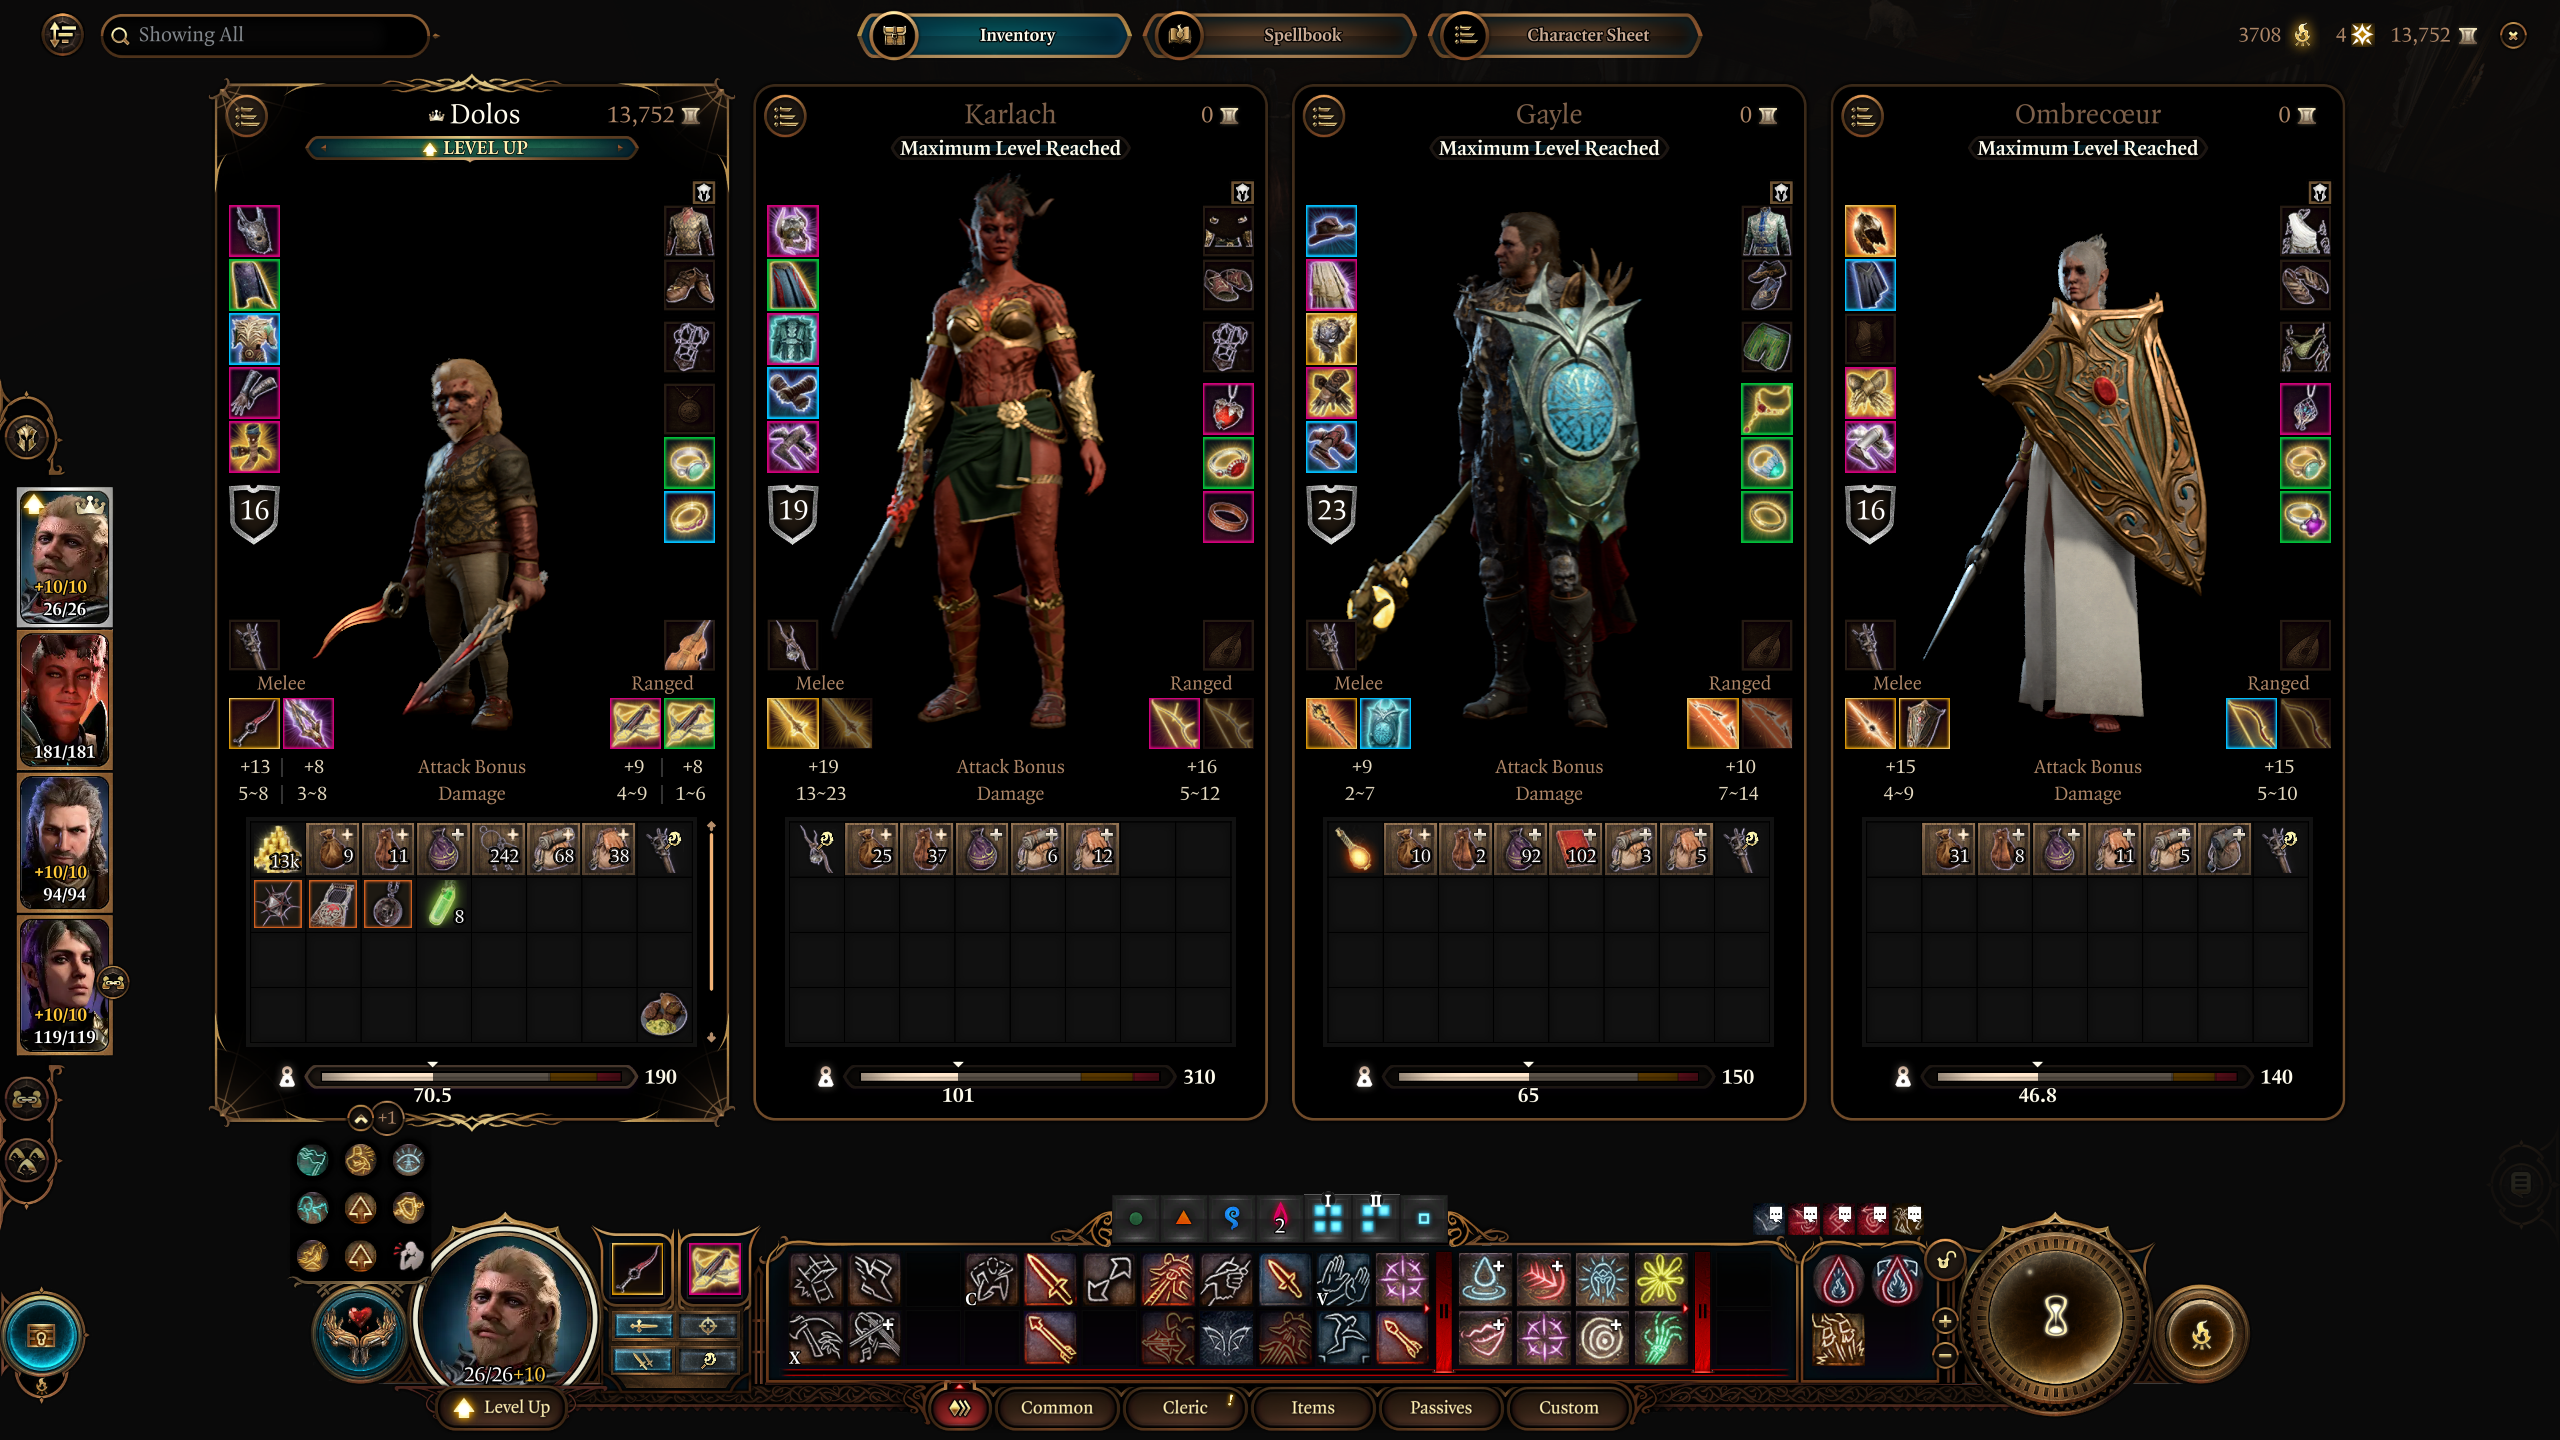
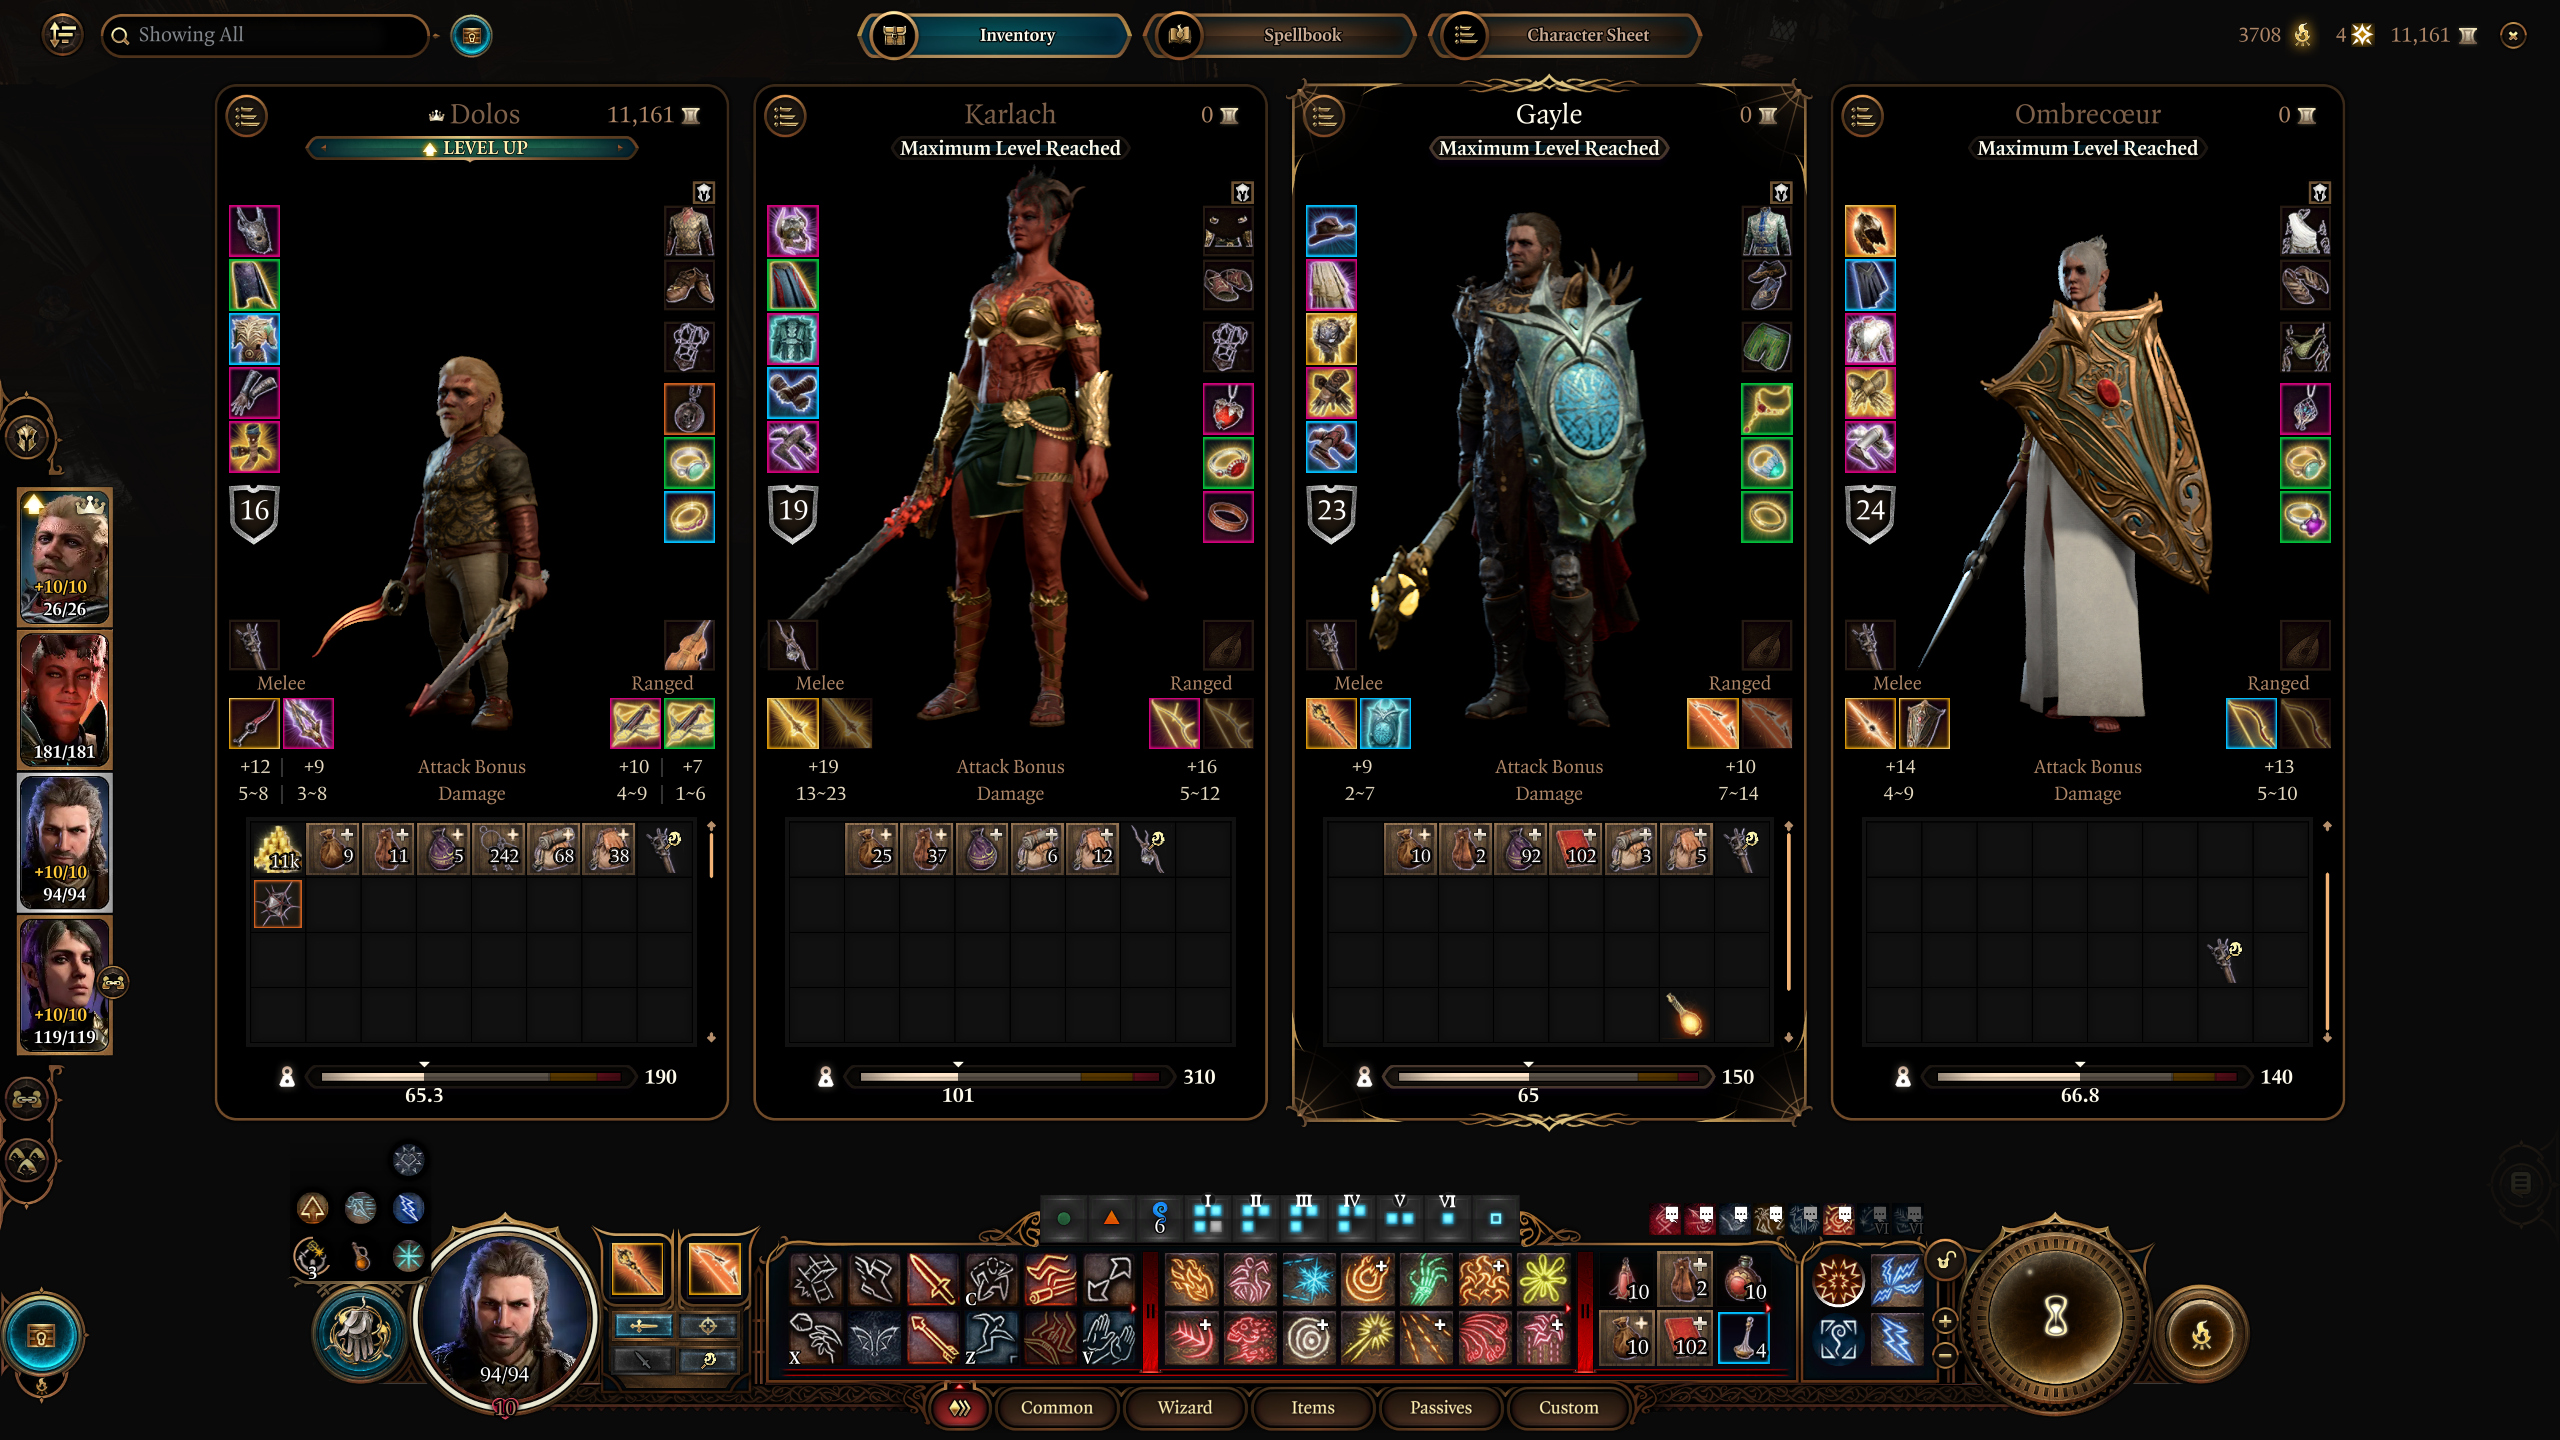
🔖 Update version to 2.5.0
- 🔥 Remove static paperdolls in Camp Panel when out of camp ( was buggy & not working with all languages )
- ✨ Add CSToggler in CharacterPanel
- ✨ Update Char & Camp/Companions inventories and panels sizes ( Now column of 8 slots like in Party Panel )
- ✨ Add images for Low Resolution screen
- ✨ Add Camp/Companions Panel button in Character & Party panels
- 💄 Rework Alchemy Panel - Full Review
- 💄 Update prepared frame image
- 💄 Fix  artefact of Bottom Bar Spell Ressources images
- 🐛 Fix Companions Panel CS toggle animations
- 🐛 Fix Character Panel SpellBook size & spacing

diff --git a/README.md b/README.md
@@ -14,7 +14,7 @@ The purpose of this mod is to improve Character, Party and Companions Panels. Al
 > Delete manually AToR old mod version.
 
 ## 🔖 Version
-- 📦 **ACS** mod : `2.4.0`
+- 📦 **ACS** mod : `2.5.0`
 - 🎮 **BG3** compatibility : `Hotfix #21 [Patch6_Hotfix4]`
 
 ## ✨ Features
@@ -24,10 +24,14 @@ The purpose of this mod is to improve Character, Party and Companions Panels. Al
 - Extend the **size** of useful content in Party Panel.
 - **Align** everything in its right place.
 - Replace some backgrounds and sprites to **fix artifacts** in vanilla images ( Party Panel Bg, Tabs, ... ).
-- Full review of the **Inventory** for Character and Party Panels.
-- Full review of the **Equipment** for Character and Party Panels.
-- Add buttons in *Spells Book*
+- Rework **Inventory** for Character and Party Panels.
+- Rework **Equipment** for Character and Party Panels.
 - Rework *Camp/Companions* Panels.
+- Rework *Alchemy* Panels.
+- Add **Button in Spells Book** to open *learn from scrolls* & collapse section before *prepared spells*.
+- Add **Button in Character and Party Panels** to open *Camp/Companions* Panel even out of camp.
+- Add **Button in Character Panel** to switch between *Info & Equipment* (like in Camp/Companions panel)
+- Add more **slots** to *inventories*.
 
 *All Types of Resistance*:
 - Display **all** types of resistance including ones without any immunity, resistance or weakness.
@@ -39,7 +43,7 @@ The purpose of this mod is to improve Character, Party and Companions Panels. Al
 ## 🔀 Compatibility
 
 ### 🟢 **Compatible** with the following mods :
-- **Better Character and Party Panels** ( *BCPP* ) *All variants* : Tested with BCPP v1.6.1 ( Alias 1.61 )
+- **Better Character and Party Panels** ( *BCPP* ) *All variants* : Tested with BCPP v1.6.2 ( Alias 1.62 )
 - **Better Tooltips** ( *BT* ) : Tested with BT v1.1.1 ( Alias 1.11 )
 - **Better Target Info** ( *BTI* ) : Tested with BTI v1.2.0.1 ( Alias 1.2 )
 
@@ -52,7 +56,8 @@ The purpose of this mod is to improve Character, Party and Companions Panels. Al
 - None -> *Tell me if you find one ❗*
 
 ### 🔴 **Not compatible** with the following mods :
-- None -> *Tell me if you find one ❗*
+- **Sorcerers can Learn Spells from Scrolls**
+- **Scroll Learning SE**
 
 ### 📄 Modified Files :
 
@@ -90,12 +95,18 @@ Remove the mod's `.pak` file from :
 
 ### Manager :
 
-- With `BG3 Mod Manager`.
-- With `Vortex`.
+- Delete with `BG3 Mod Manager`.
+- Delete with `Vortex`.
 
 ## 🔍 Screenshots
 
-### All resistance icons grouped & ordered :
+### All Resistance Tooltips :
+
+<p align="center">
+  <img src="Docs/Screenshots/Tooltips.png" alt="Tooltips"/>
+</p>
+
+### All Resistance icons grouped & ordered :
 
 <p align="center">
   <img src="Docs/Screenshots/Inspect_creature_Mizora.png" alt="Inspect creature Mizora"/>
@@ -107,12 +118,6 @@ Remove the mod's `.pak` file from :
   <img src="Docs/Screenshots/CharPanel_Karlach.png" alt="Character panel"/>
 </p>
 
-### Tooltips :
-
-<p align="center">
-  <img src="Docs/Screenshots/Tooltips.png" alt="Tooltips"/>
-</p>
-
 ### Inspect items :
 
 <p align="center">
@@ -122,23 +127,65 @@ Remove the mod's `.pak` file from :
 ### Character & Camp/Companions Panel :
 
 <p align="center">
-  <img src="Docs/Screenshots/CS_and_Camp.png" alt="Character and Camp panels"/>
+  <img src="Docs/Screenshots/Char_and_Camp.png" alt="Character and Camp panels"/>
 </p>
 
 <p align="center">
-  <img src="Docs/Screenshots/CS_and_Companion.png" alt="Character and Companions panels"/>
+  <img src="Docs/Screenshots/Char_and_Companion_1.png" alt="Character and Companions panels #1"/>
 </p>
 
 <p align="center">
-  <img src="Docs/Screenshots/SpellBook_and_CompanionSheet.png" alt="SpellBook and Companions panel #1"/>
+  <img src="Docs/Screenshots/Char_and_Companion_2.png" alt="Character and Companions panels #2"/>
 </p>
 
 <p align="center">
-  <img src="Docs/Screenshots/SpellBook_and_CompanionSheet2.png" alt="SpellBook and Companions panel #2"/>
+  <img src="Docs/Screenshots/Char_and_Companion_3.png" alt="Character and Companions panels #3"/>
 </p>
 
 <p align="center">
-  <img src="Docs/Screenshots/SpellBook_and_CompanionSheet3.png" alt="SpellBook and Companions panel #3"/>
+  <img src="Docs/Screenshots/Char_and_Companion_4.png" alt="Character and Companions panels #4"/>
+</p>
+
+<p align="center">
+  <img src="Docs/Screenshots/Char_and_Companion_5.png" alt="Character and Companions panels #5"/>
+</p>
+
+### Spell Book Panel :
+
+<p align="center">
+  <img src="Docs/Screenshots/SpellBook_1.png" alt="Spell Book panel #1"/>
+</p>
+
+<p align="center">
+  <img src="Docs/Screenshots/SpellBook_2.png" alt="Spell Book panel #2"/>
+</p>
+
+<p align="center">
+  <img src="Docs/Screenshots/SpellBook_3.png" alt="Spell Book panel #3"/>
+</p>
+
+<p align="center">
+  <img src="Docs/Screenshots/SpellBook_4.png" alt="Spell Book panel #4"/>
+</p>
+
+### Alchemy Panel :
+
+<p align="center">
+  <img src="Docs/Screenshots/Alchemy_1.png" alt="Alchemy panel #1"/>
+</p>
+
+<p align="center">
+  <img src="Docs/Screenshots/Alchemy_2.png" alt="Alchemy panel #2"/>
+</p>
+
+<p align="center">
+  <img src="Docs/Screenshots/Alchemy_3.png" alt="Alchemy panel #3"/>
+</p>
+
+### Illithid Panel :
+
+<p align="center">
+  <img src="Docs/Screenshots/Illithid.png" alt="Illithid panel"/>
 </p>
 
 ### Party Panel :
@@ -152,13 +199,13 @@ Remove the mod's `.pak` file from :
 </p>
 
 <p align="center">
-  <img src="Docs/Screenshots/Party_CS.png" alt="Party CharacterSheet panel #1"/>
+  <img src="Docs/Screenshots/Party_CS_1.png" alt="Party CharacterSheet panel #1"/>
 </p>
 
 <p align="center">
-  <img src="Docs/Screenshots/Party_CS2.png" alt="Party CharacterSheet panel #2"/>
+  <img src="Docs/Screenshots/Party_CS_2.png" alt="Party CharacterSheet panel #2"/>
 </p>
 
 <p align="center">
-  <img src="Docs/Screenshots/Party_CS3.png" alt="Party CharacterSheet panel #3"/>
+  <img src="Docs/Screenshots/Party_CS_3.png" alt="Party CharacterSheet panel #3"/>
 </p>
